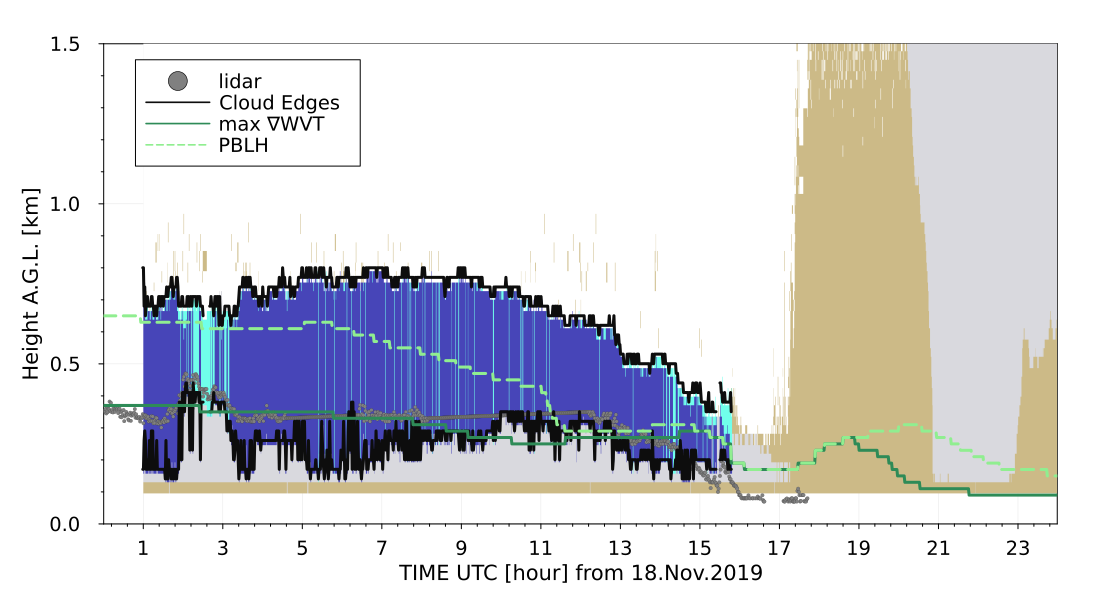
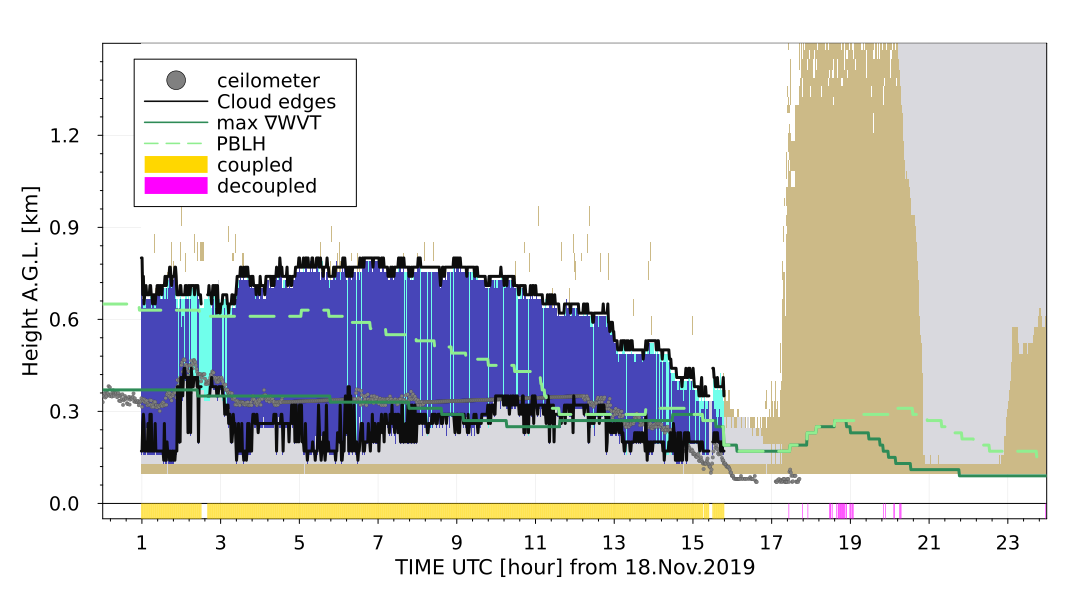
printed poster version

diff --git a/B07_poster_AC3_GA2022.tex b/B07_poster_AC3_GA2022.tex
@@ -258,8 +258,8 @@ Daily sea ice lead fraction (LF) is obtained from space-borne observations based
 	%\setcaptiontype{figure}
 	\centering
 	%\subfloat{
-		\includegraphics[width=.61\linewidth]{bias_sic_timeseries.png}\hfill
-		\includegraphics[width=.35\linewidth]{mosaic0152_20191115T03271573_20191118T05301574_LF.png}
+		\includegraphics[width=.6\linewidth]{bias_sic_timeseries.png}\hfill
+		\includegraphics[width=.37\linewidth]{mosaic0152_20191115T03271573_20191118T05301574_LF.png}
 	%}
 	\captionsetup{width=0.8\linewidth}
 	\captionof{figure}{\small Left: LF and SIC for \mosaic leg 1 to 3. Vertical dashed-grey lines indicates period without Sentinel-1 data. Right: case study 18 Nov 2019.}
@@ -280,7 +280,7 @@ The direction of maximum transport (see grey lines in Fig.~\ref{fig:lf_sic}) is 
 	%\setcaptiontype{figure}
 	\centering
 	%\subfloat{
-		\includegraphics[width=.6\linewidth]{drawing_lead_cloud.png}
+		\includegraphics[width=.62\linewidth]{new_drawing_lead_cloud.png}
 	%}
 	\captionof{figure}{\smaller Sea ice interaction with observed clouds. Adapted from \refp{bib:jannos2022}}
 	\label{fig:leadcloud}
@@ -292,8 +292,7 @@ The PBLH is used as top layer from which the maximum $\nabla WVT$ is localized d
 	Ri_b(z)\,=\,\frac{g}{\theta_v}\frac{\Delta \theta_v \,\Delta z}{\left( \Delta u \right)^2\,+\,\left(\Delta v \right)^2}
 	\label{eq:Rib}
 \end{equation}
-with $g$ is the constant of gravity 9.81~$\rm m~s^{-2}$, $\theta_v$ is the virtual potential temperature profile
-in K, $\Delta \theta_v\,=\,\theta_v-\theta_v(z_0)$, $\Delta u\,=\,u-u_0$, and $\Delta v\,=\,v-v_0$, the horizontal wind components in $\rm m~s^{-1}$. The $\Delta z\,=\,z - z_0$ with $z$ the altitude of the atmosphere layers in $\rm m$ and the subscript $0$ indicating the surface reference.
+with $g$ is the constant of gravity, $\theta_v$ is the virtual potential temperature profile in K, $\Delta \theta_v\,=\,\theta_v-\theta_v(z_0)$, $\Delta u\,=\,u-u_0$, and $\Delta v\,=\,v-v_0$, the horizontal wind components in $\rm m~s^{-1}$. The $\Delta z\,=\,z - z_0$ with $z$ the altitude of the atmosphere layers in $\rm m$ and the subscript $0$ indicating the surface reference.
 
 \colouredcircle Cloud coupling classification: criteria based on the virtual potential temperature $\theta_v$ and location of maximum $\nabla~WVT$ below PBLH. The $\theta_v$ is analyzed to classify cases where the WVT is coupled or decoupled to the cloud.
 \begin{minipage}{0.98\linewidth}
@@ -302,7 +301,7 @@ in K, $\Delta \theta_v\,=\,\theta_v-\theta_v(z_0)$, $\Delta u\,=\,u-u_0$, and $\
 	%\subfloat{
 		\includegraphics[width=0.32\linewidth]{high_coupling_profile_1243UTC.png}
 		\includegraphics[width=0.32\linewidth]{low_coupling_profile_1417UTC.png}
-		\includegraphics[width=0.32\linewidth]{decoupling_profile_1844UTC.png}
+		\includegraphics[width=0.32\linewidth]{decoupling_profile_1854UTC.png}
 	%}
 	\captionof{figure}{\smaller Examples of cloud coupling (left \& middle) and decoupling (right).}
 	\label{fig:cop-dec}
@@ -348,7 +347,7 @@ in K, $\Delta \theta_v\,=\,\theta_v-\theta_v(z_0)$, $\Delta u\,=\,u-u_0$, and $\
 		\begin{center}
 			\includegraphics[width=.9\linewidth]{PBLH_zoom_cloudnet_classific_20191118}	
 			\captionsetup{width=0.83\linewidth}
-			\captionof{figure}{Close-up of Fig.~\ref{fig:classification} (top) for the lowest 1.5~km showing the PBLH (dashed-light-green), max~$\nabla WVT$ (green), and estimated cloud bottom and top heights (black lines) of the low-level stratiform mixed-phase cloud, the dotted-grey is the cloud base as detected by the ceilometer.}
+			\captionof{figure}{Close-up of Fig.~\ref{fig:classification} (top) showing the PBLH (dashed-light-green), max~$\nabla WVT$ (green), and estimated cloud bottom and top heights (black lines) of the low-level stratiform mixed-phase cloud, the dotted-grey is the cloud base as detected by the ceilometer. Coupled status is shown along the x-axis.}
 			\label{fig:closeup}
 		\end{center}
 	\end{minipage}
@@ -395,13 +394,25 @@ in K, $\Delta \theta_v\,=\,\theta_v-\theta_v(z_0)$, $\Delta u\,=\,u-u_0$, and $\
 	\label{fig:scatterWPLF}
 \end{minipage}\\
 
-From Fig.~\ref{fig:scatterWPLF} [a] a clear relationship of LWP and LF can be seen, the larger the LF the higher LWP, and the warmer the cloud top temperature too. For IWP (Fig.~\ref{fig:scatterWPLF} [b]) there is no relationship found, a wide range of IWP values occur during the observed LF. The only clear feature is the clustering of points with being gathered towards larger LF which corresponds to coupled cases as in Fig.~\ref{fig:cop-dec} (left \& middle). Shown in Fig.~\ref{fig:scatterWPLF} [c] is the gradient of cloud temperature defined as
-\begin{equation}
-	\Gamma_{\rm cloud}=\frac{\Delta T}{\Delta H}\,=\,\frac{T_{top}-T_{base}}{CTH-CBH}
-	\label{eq:lapserate}
-\end{equation}
+From Fig.~\ref{fig:scatterWPLF} [a] a clear relationship of LWP and LF can be seen, the larger the LF the higher LWP, and the warmer the cloud top temperature too. For IWP (Fig.~\ref{fig:scatterWPLF} [b]) there is no relationship found, a wide range of IWP values occur during the observed LF. The only clear feature is the clustering of points with being gathered towards larger LF which corresponds to coupled cases as in Fig.~\ref{fig:cop-dec} (left \& middle).\\
+\begin{tabular}{ll}
+	\hspace{-1em}
+	\begin{minipage}{0.65\linewidth}
+		Shown in Fig.~\ref{fig:scatterWPLF} [c] is the gradient of cloud temperature defined as Eq.~\ref{eq:lapserate}.
+		The most negative $\Gamma_{\rm cloud}$ are close to a moist adiabatic lapse-rate, whereas positive values indicate a temperature inversion at cloud top, however this is not consistent neither with increasing LF nor cloud thickness since for coupled cases there are positive and negative $\Gamma_{\rm cloud}$ which is an indicator of other factors playing a role.	
+	\end{minipage}
+	&
+	\begin{minipage}{0.31\linewidth}
+		%\color{white}
+			\begin{equation}
+			\Gamma_{\rm cloud}=\frac{\Delta T}{\Delta H}\,=\,\frac{T_{top}-T_{base}}{CTH-CBH}
+			\label{eq:lapserate}
+		\end{equation}
+	\end{minipage}
+\end{tabular}
+
  %(with $\Delta T=T_{top}-T_{base}$ and $\Delta H=CTH-CBH$ .
- The most negative $\Gamma_{\rm cloud}$ are close to a moist adiabatic lapse-rate, whereas positive values indicate a temperature inversion at cloud top, however this is not consistent neither with increasing LF nor cloud thickness since for coupled cases there are positive and negative $\Gamma_{\rm cloud}$ which is an indicator of other factors playing a role.
+ 
    
 %\parbox[l]{0.8\linewidth}{   \vspace{-.5em}
 %	{Some text here....}    
@@ -411,7 +422,7 @@ From Fig.~\ref{fig:scatterWPLF} [a] a clear relationship of LWP and LF can be se
 %%%%%%%%%%%%%%%%%%%%%%%%%%%%%%%%%%%%%%%%%%%%%%%%%%%%%%%%%%%%%%%%%%%%%%%%%%%%%%
 \headerbox{4.- Conclusions}{name=conclutions,column=0,span=3,below=results}{
   %%%%%%%%%%%%%%%%%%%%%%%%%%%%%%%%%%%%%%%%%%%%%%%%%%%%%%%%%%%%%%%%%%%%%%%%%%%%%%
-{\small
+{\normalsize
 \begin{itemize}
 		\item Relating cloud observations with LF upwind with water vapour transport as conveying mechanism for the coupling seems to be plausible approach,
 		\item A positive relationship of LWP and LF has been found; no clear relation between LF and IWP or cloud temperature gradient was found,
